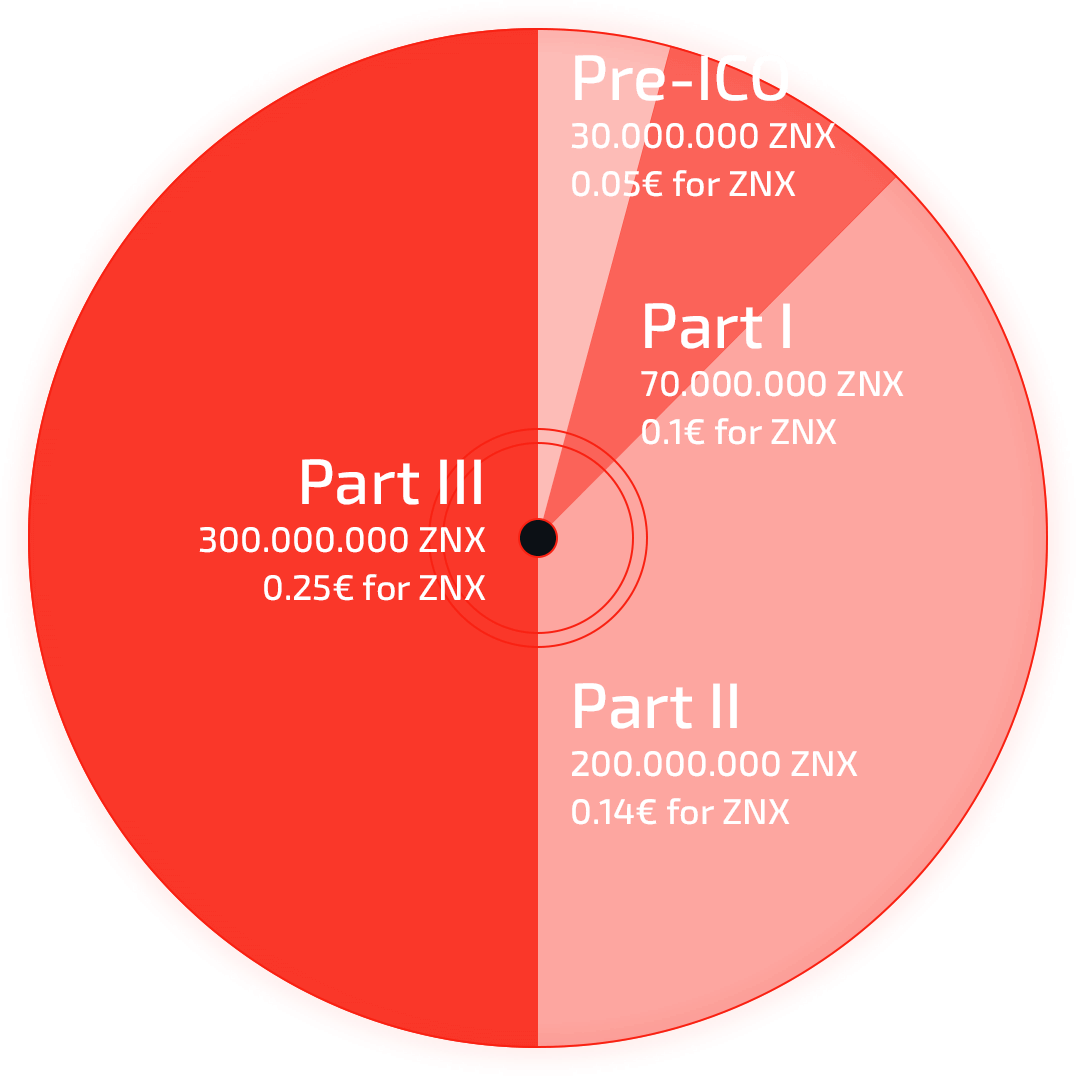
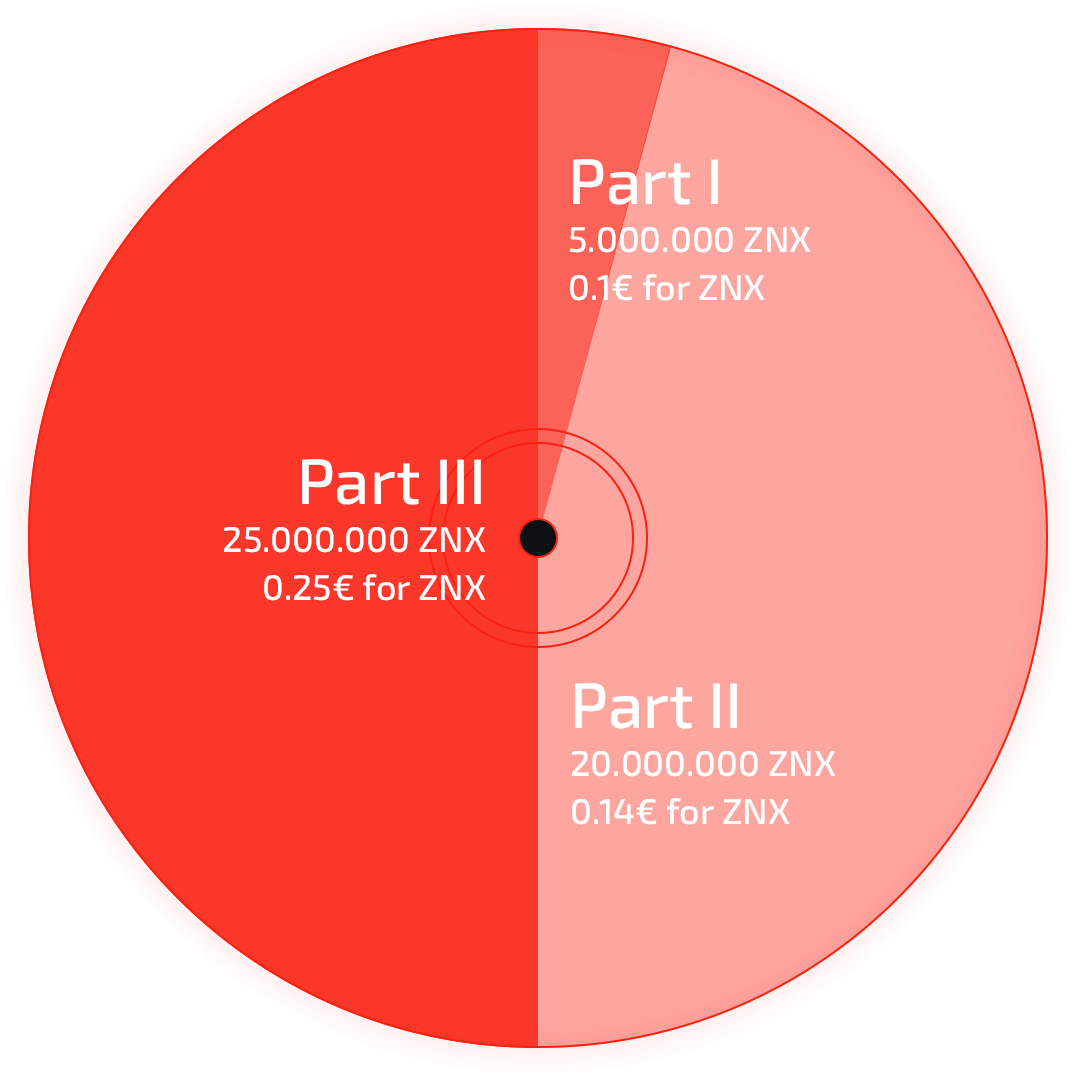
hp changes

diff --git a/front-end/index.html b/front-end/index.html
@@ -508,20 +508,13 @@
 
       <section class="lp-section-four white-content" id="ico">
         <div class="container">
-          <div class="row lp-row-1">
+          <div class="row lp-row-1 content-center">
             <div class="col-sm-6 text-center">
-              <h3 class="h2 headline">ICO <br> 600.000.000</h3>
+              <h3 class="h2 headline">ICO <br> 50.000.000</h3>
               <div class="lp-image-container4">
                 <img src="images/ICO.png" alt="ICO">
               </div>
-              <h2 class="h2 headline ico-chart-headline">PRE-ICO <span>1 ZNX = 0.05€</span><span>1 ZNX = 0.000087798 ETH</span></h2>
-            </div>
-            <div class="col-sm-6 text-center">
-              <h3 class="h2 headline">Token <br> distribution</h3>
-              <div class="lp-image-container4">
-                <img src="images/token-distribution.png" alt="Token Distribution">
-              </div>
-              <!-- <a href="#sign-up-preico" class="js-popup-link btn btn--shadowed-dark btn--260">Register For Pre-ICO</a> -->
+              <h2 class="h2 headline ico-chart-headline mb-30">PRE-ICO <span>1 ZNX = 0.05€</span><span>1 ZNX = 0.000087798 ETH</span></h2>
               <a href="#sign-up-modal" class="js-popup-link btn btn--shadowed-dark btn--260">Buy Tokens NOW</a>
             </div>
           </div>
@@ -1188,10 +1181,14 @@
             </form>
           </div>
         </div>
-        <div class="footer-logo">
+        <div class="footer-logo mb-30">
           <a href="/" title="ZANTEPAY">
             <img src="images/logo-large.png" alt="ZANTEPAY Logo">
           </a>
+        </div>
+        <div class="text-center"> 
+          <h3 class="h2 mb-30">JOIN OUR NEWSLETTER</h3>
+          <iframe frameborder="0" scrolling="no" marginheight="0" marginwidth="0" src="https://app.mailjet.com/widget/iframe/2gIc/77E" width="100%" height="140"></iframe>
         </div>
         <div class="footer-menu">
           <ul>
@@ -1449,12 +1446,7 @@
           <p class="primary-color" style="font-size: 60px;line-height: 1;margin: -25px 0 20px;"><b>€ 300</b></p>
           <p>Winner will be announced 18.05.2018</p>
         </div>
-        <form action="">
-          <div class="logon-group mb-30">
-            <input class="input-field text-center" type="email" name="email" placeholder="Your email">
-          </div>
-            <input class="btn btn--shadowed-light btn--200" type="submit" value="Subscribe">
-        </form>
+        <iframe frameborder="0" scrolling="no" marginheight="0" marginwidth="0" src="https://app.mailjet.com/widget/iframe/2gIc/77A" width="100%" height="auto"></iframe>
       </div>
     </div>
 

diff --git a/back-end/resources/views/main/index.blade.php b/back-end/resources/views/main/index.blade.php
@@ -365,19 +365,12 @@
             <div class="container">
                 <div class="row lp-row-1">
                     <div class="col-sm-6 text-center">
-                        <h3 class="h2 headline">ICO <br> 600.000.000</h3>
+                        <h3 class="h2 headline">ICO <br> 50.000.000</h3>
                         <div class="lp-image-container4">
                             <img src="images/ICO.png" alt="ICO">
                         </div>
-                        <h2 class="h2 headline ico-chart-headline">{{ $ico['name'] }} <span>1 ZNX = {{ $ico['euroRate'] }}€</span><span>1 ZNX = {{ $ico['ethRate'] }}
+                        <h2 class="h2 headline ico-chart-headline mb-30">{{ $ico['name'] }} <span>1 ZNX = {{ $ico['euroRate'] }}€</span><span>1 ZNX = {{ $ico['ethRate'] }}
                                 ETH</span></h2>
-                    </div>
-                    <div class="col-sm-6 text-center">
-                        <h3 class="h2 headline">Token <br> distribution</h3>
-                        <div class="lp-image-container4">
-                            <img src="images/token-distribution.png" alt="Token Distribution">
-                        </div>
-                        <!-- <a href="#sign-up-preico" class="js-popup-link btn btn--shadowed-dark btn--260" onclick=" ga('send',  'event',  'button', 'onclick', 'register_for_pre_ico');">Register For Pre-ICO</a> -->
                         @guest
                             <a href="#sign-up-modal" class="js-popup-link btn btn--shadowed-dark btn--260">Buy Tokens NOW</a>
                         @endguest
